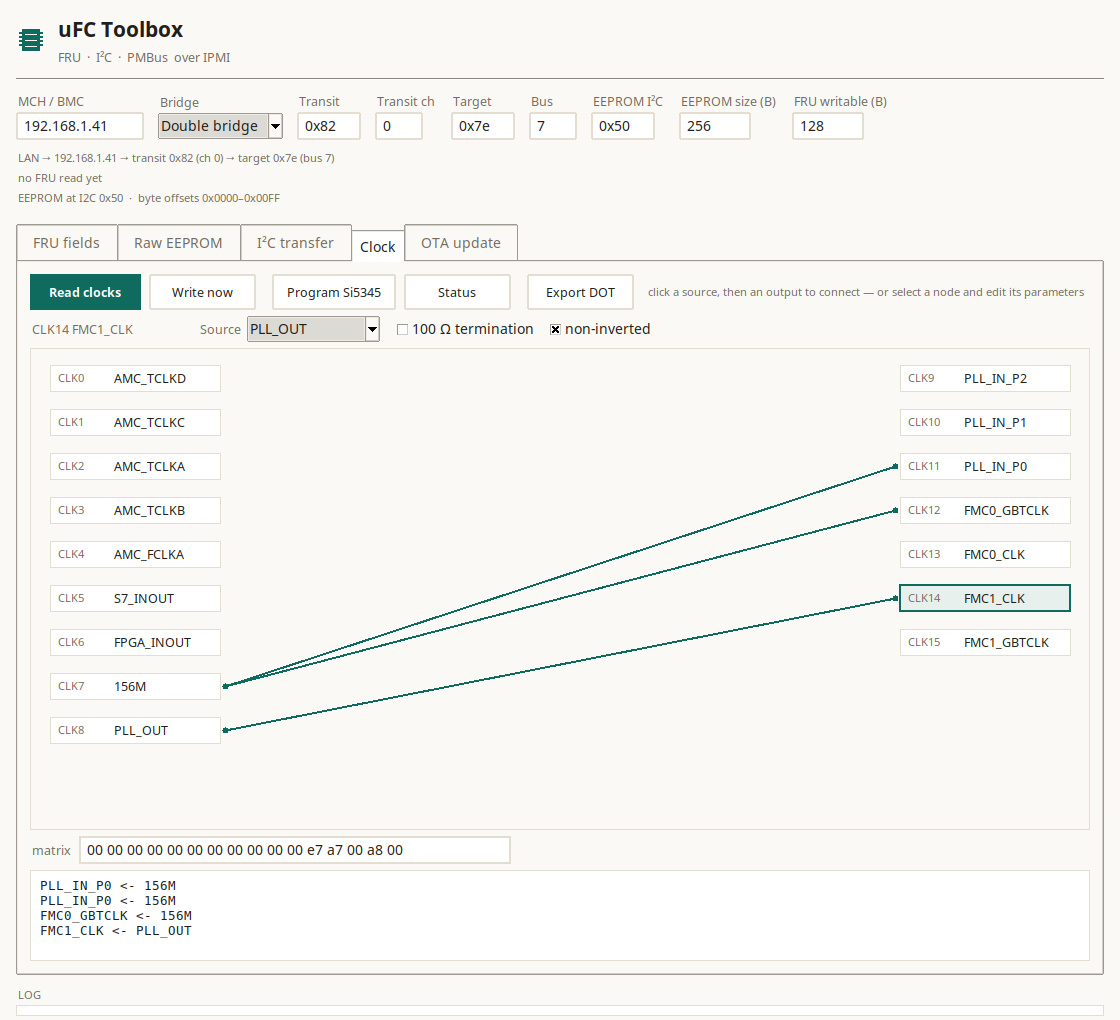
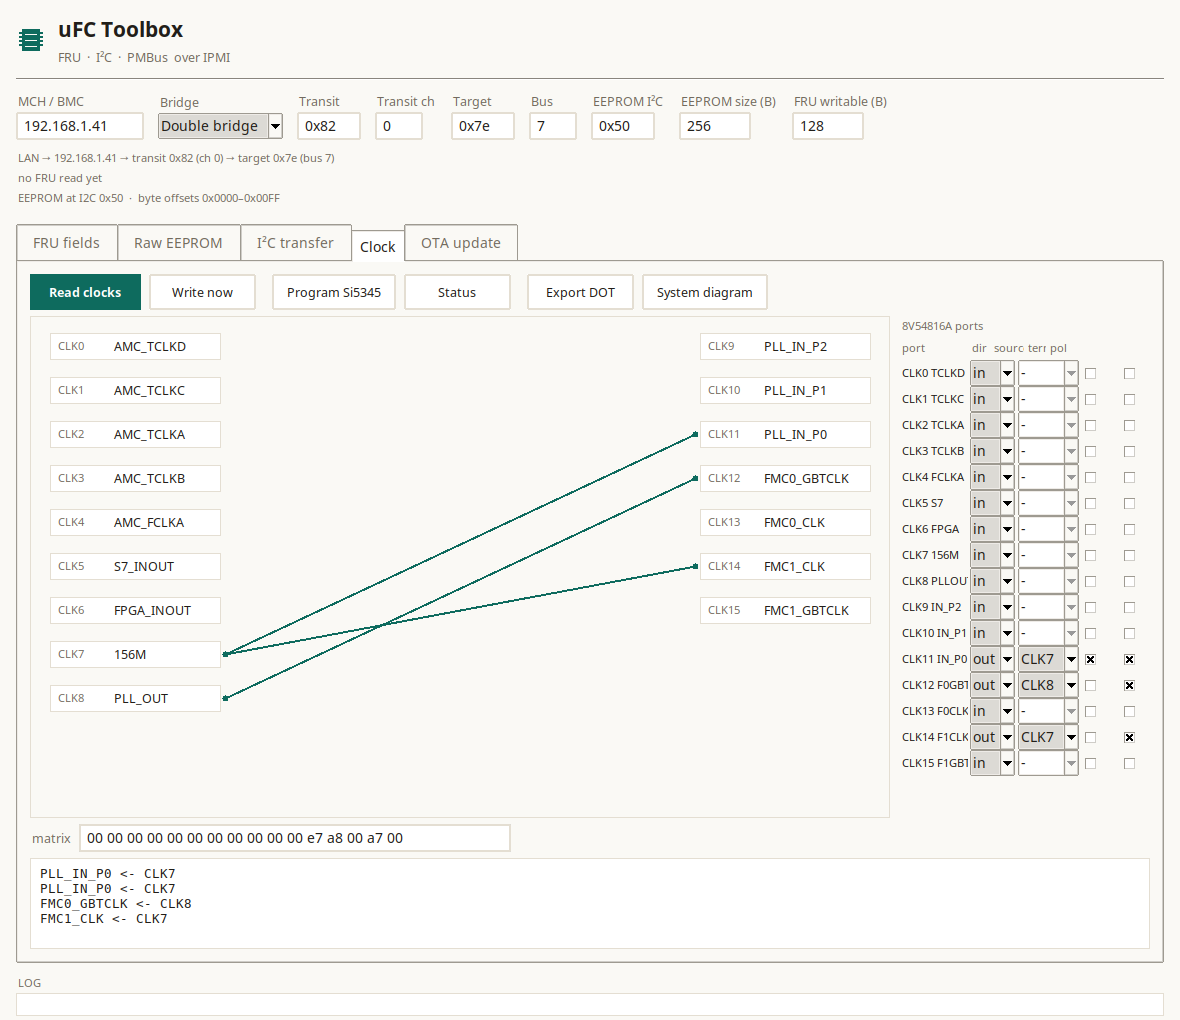
tools/fru_gui: per-port configuration table for the 8V54816A
All 16 ports are now editable in a table next to the crossbar:
direction (in/out), source (CLK0..CLK8 for outputs), 100 ohm
termination, non-inverted polarity. Each change updates the matrix
byte (bit7 output, bit6 termination, bit5 polarity, bits3:0 source) and
redraws the crossbar; ports switched to output default to non-inverted.
Read/write now, Export DOT and the system diagram work from this table.
README and screenshot updated; binary rebuilt.

diff --git a/tools/fru_gui/fru_gui_tk.py b/tools/fru_gui/fru_gui_tk.py
@@ -332,46 +332,123 @@ class FruEditor(tk.Tk):
         ttk.Button(row, text="Status", command=self.clock_status).pack(side="left", padx=(8, 0))
         ttk.Button(row, text="Export DOT", command=self.clock_export_dot).pack(side="left", padx=(16, 0))
         ttk.Button(row, text="System diagram", command=self.clock_show_system).pack(side="left", padx=(8, 0))
-        ttk.Label(row, text="click a source, then an output to connect — or select a node and edit its parameters",
-                  style="Hint.TLabel").pack(side="left", padx=(12, 0))
 
-        props = ttk.Frame(parent)
-        props.pack(fill="x", pady=(0, 6))
-        self.clock_sel_label = tk.StringVar(value="no node selected")
-        ttk.Label(props, textvariable=self.clock_sel_label, style="FieldLabel.TLabel",
-                  width=22, anchor="w").pack(side="left")
-        ttk.Label(props, text="Source", style="FieldLabel.TLabel").pack(side="left", padx=(10, 4))
-        self.clock_src_var = tk.StringVar(value="none")
-        self.clock_src_box = ttk.Combobox(props, textvariable=self.clock_src_var, width=14,
-                                          state="disabled")
-        self.clock_src_box.pack(side="left")
-        self.clock_src_box.bind("<<ComboboxSelected>>", lambda e: self._clock_apply_props())
-        self.clock_term_var = tk.BooleanVar(value=False)
-        ttk.Checkbutton(props, text="100 Ω termination", variable=self.clock_term_var,
-                        command=self._clock_apply_props).pack(side="left", padx=(14, 0))
-        self.clock_pol_var = tk.BooleanVar(value=True)
-        ttk.Checkbutton(props, text="non-inverted", variable=self.clock_pol_var,
-                        command=self._clock_apply_props).pack(side="left", padx=(10, 0))
+        main = ttk.Frame(parent)
+        main.pack(fill="both", expand=True, pady=(0, 6))
+        left = ttk.Frame(main)
+        left.pack(side="left", fill="both", expand=True)
+        right = ttk.Frame(main, padding=(10, 0, 0, 0))
+        right.pack(side="right", fill="y")
 
         self.clock_matrix = bytearray(16)
-        self.clock_sel = None
         self.clock_loading = False
-        self.clock_canvas = tk.Canvas(parent, height=480, bg=BG, highlightthickness=1,
+        self.clock_pending_src = None
+        self.clock_canvas = tk.Canvas(left, height=500, bg=BG, highlightthickness=1,
                                       highlightbackground=LINE)
-        self.clock_canvas.pack(fill="both", expand=True, pady=(0, 6))
+        self.clock_canvas.pack(fill="both", expand=True)
         self.clock_canvas.bind("<Button-1>", self._clock_click)
         self.clock_canvas.bind("<Configure>", lambda e: self._clock_redraw())
+
+        ttk.Label(right, text="8V54816A ports", style="Hint.TLabel").pack(anchor="w")
+        hdr = ttk.Frame(right)
+        hdr.pack(fill="x", pady=(2, 2))
+        for text, w in (("port", 11), ("dir", 3), ("source", 5), ("term", 3), ("pol", 3)):
+            ttk.Label(hdr, text=text, style="Hint.TLabel", width=w).pack(side="left")
+
+        self.port_vars = []
+        for i in range(16):
+            port, name = (self.CLOCK_INPUTS + self.CLOCK_OUTPUTS)[i]
+            short = {"AMC_TCLKD":"TCLKD","AMC_TCLKC":"TCLKC","AMC_TCLKA":"TCLKA",
+                     "AMC_TCLKB":"TCLKB","AMC_FCLKA":"FCLKA","S7_INOUT":"S7",
+                     "FPGA_INOUT":"FPGA","156M":"156M","PLL_OUT":"PLLOUT",
+                     "PLL_IN_P2":"IN_P2","PLL_IN_P1":"IN_P1","PLL_IN_P0":"IN_P0",
+                     "FMC0_GBTCLK":"F0GBT","FMC0_CLK":"F0CLK","FMC1_CLK":"F1CLK",
+                     "FMC1_GBTCLK":"F1GBT"}.get(name, name)
+            rowf = ttk.Frame(right)
+            rowf.pack(fill="x", pady=0)
+            ttk.Label(rowf, text="%s %s" % (port, short), width=11, anchor="w",
+                      font=(UI_FONT, 8)).pack(side="left")
+            d = tk.StringVar(value="in")
+            ttk.Combobox(rowf, textvariable=d, values=("in", "out"), width=3,
+                         state="readonly").pack(side="left", padx=(0, 3))
+            src = tk.StringVar(value="-")
+            srcbox = ttk.Combobox(rowf, textvariable=src, width=5, state="disabled")
+            srcbox.pack(side="left", padx=(0, 3))
+            term = tk.BooleanVar(value=False)
+            ttk.Checkbutton(rowf, variable=term, width=1).pack(side="left", padx=(0, 10))
+            pol = tk.BooleanVar(value=True)
+            ttk.Checkbutton(rowf, variable=pol, width=1).pack(side="left")
+            entry = {"dir": d, "src": src, "srcbox": srcbox, "term": term, "pol": pol,
+                     "frame": rowf}
+            self.port_vars.append(entry)
+            d.trace_add("write", lambda *_a, idx=i: self._port_dir_changed(idx))
+            src.trace_add("write", lambda *_a, idx=i: self._port_apply(idx))
+            term.trace_add("write", lambda *_a, idx=i: self._port_apply(idx))
+            pol.trace_add("write", lambda *_a, idx=i: self._port_apply(idx))
 
         srow = ttk.Frame(parent)
         srow.pack(fill="x", pady=(0, 6))
         ttk.Label(srow, text="matrix", style="FieldLabel.TLabel").pack(side="left")
         self.switch_var = tk.StringVar(value="")
         ttk.Entry(srow, textvariable=self.switch_var, width=52, state="readonly").pack(side="left", padx=(6, 10))
+        self._port_load_all()
 
         self.clock_out = tk.Text(parent, height=5, font=(MONO_FONT, 9), state="disabled",
                                  bg=PANEL, fg=INK, relief="flat", highlightthickness=1,
                                  highlightbackground=LINE, padx=8, pady=6)
         self.clock_out.pack(fill="x")
+
+    def _port_load_all(self):
+        self.clock_loading = True
+        for i in range(16):
+            cfg = self.clock_matrix[i]
+            d = self.port_vars[i]
+            d["dir"].set("out" if (cfg & 0x80) else "in")
+            d["term"].set(bool(cfg & 0x40))
+            d["pol"].set(bool(cfg & 0x20))
+            if cfg & 0x80:
+                src = cfg & 0x0F
+                d["src"].set(self.CLOCK_INPUTS[src][0] if src < len(self.CLOCK_INPUTS) else "-")
+                d["srcbox"].configure(state="readonly",
+                                      values=["-"] + [p for (p, _n) in self.CLOCK_INPUTS])
+            else:
+                d["src"].set("-")
+                d["srcbox"].configure(state="disabled")
+        self.clock_loading = False
+        self._clock_sync()
+
+    def _port_dir_changed(self, i):
+        if self.clock_loading:
+            return
+        d = self.port_vars[i]
+        # a port switched to output defaults to non-inverted
+        if d["dir"].get() == "out" and not d["pol"].get():
+            d["pol"].set(True)
+        self._port_apply(i)
+
+    def _port_apply(self, i):
+        if self.clock_loading:
+            return
+        d = self.port_vars[i]
+        term = 0x40 if d["term"].get() else 0
+        pol = 0x20 if d["pol"].get() else 0
+        if d["dir"].get() == "in":
+            self.clock_matrix[i] = term | pol
+            d["src"].set("-")
+            d["srcbox"].configure(state="disabled")
+        else:
+            d["srcbox"].configure(state="readonly",
+                                  values=["-"] + [p for (p, _n) in self.CLOCK_INPUTS])
+            src_name = d["src"].get()
+            if src_name == "-":
+                self.clock_matrix[i] = 0x80 | term | pol
+            else:
+                src = [p for (p, _n) in self.CLOCK_INPUTS].index(src_name)
+                self.clock_matrix[i] = 0x80 | term | pol | src
+                self._clock_log("%s <- %s" % (self.CLOCK_OUTPUTS[i - 9][1] if i >= 9 else "CLK%d" % i,
+                                              src_name))
+        self._clock_sync()
+        self._clock_redraw()
 
     def _clock_geometry(self):
         w = self.clock_canvas.winfo_width() or 960
@@ -389,7 +466,7 @@ class FruEditor(tk.Tk):
 
         for i, (port, name) in enumerate(self.CLOCK_INPUTS):
             y = y0 + i * row_h
-            sel = (self.clock_sel == ("in", i))
+            sel = (self.clock_pending_src == i)
             c.create_rectangle(left, y - 13, left + box_w, y + 13,
                                fill="#E7F0ED" if sel else PANEL,
                                outline=ACCENT if sel else LINE, width=2 if sel else 1)
@@ -400,10 +477,8 @@ class FruEditor(tk.Tk):
             y = y0 + j * row_h
             cfg = self.clock_matrix[9 + j]
             src = (cfg & 0x0F) if (cfg & 0x80) else None
-            sel = (self.clock_sel == ("out", j))
             c.create_rectangle(right, y - 13, right + box_w, y + 13,
-                               fill="#E7F0ED" if sel else PANEL,
-                               outline=ACCENT if sel else LINE, width=2 if sel else 1)
+                               fill=PANEL, outline=LINE, width=1)
             c.create_text(right + 8, y, text=port, anchor="w", fill=MUTED, font=(UI_FONT, 8))
             c.create_text(right + 64, y, text=name, anchor="w", fill=INK, font=(UI_FONT, 9))
             if src is not None and src < len(self.CLOCK_INPUTS):
@@ -419,70 +494,20 @@ class FruEditor(tk.Tk):
         if left <= x <= left + box_w:
             idx = int(round((y - y0) / row_h))
             if 0 <= idx < len(self.CLOCK_INPUTS):
-                self._clock_select(("in", idx))
+                self.clock_pending_src = None if self.clock_pending_src == idx else idx
+                self._clock_redraw()
                 return
         if right <= x <= right + box_w:
             j = int(round((y - y0) / row_h))
             if 0 <= j < len(self.CLOCK_OUTPUTS):
-                if self.clock_sel and self.clock_sel[0] == "in":
-                    src = self.clock_sel[1]
-                    # default for a new connection: output, non-inverted, no termination
+                src = self.clock_pending_src
+                if src is not None:
                     self.clock_matrix[9 + j] = 0x80 | 0x20 | src
-                    self._clock_log("%s <- %s" % (self.CLOCK_OUTPUTS[j][1], self.CLOCK_INPUTS[src][1]))
-                self._clock_select(("out", j))
-
-    def _clock_select(self, sel):
-        self.clock_sel = sel
-        self._clock_loading = True
-        if sel is None:
-            self.clock_sel_label.set("no node selected")
-            self.clock_src_box.configure(state="disabled")
-        elif sel[0] == "in":
-            i = sel[1]
-            port, name = self.CLOCK_INPUTS[i]
-            self.clock_sel_label.set("%s %s" % (port, name))
-            cfg = self.clock_matrix[i]
-            self.clock_term_var.set(bool(cfg & 0x40))
-            self.clock_pol_var.set(bool(cfg & 0x20))
-            self.clock_src_box.configure(state="disabled")
-            self.clock_src_var.set("none")
-        else:
-            j = sel[1]
-            port, name = self.CLOCK_OUTPUTS[j]
-            self.clock_sel_label.set("%s %s" % (port, name))
-            cfg = self.clock_matrix[9 + j]
-            connected = bool(cfg & 0x80)
-            self.clock_term_var.set(bool(cfg & 0x40))
-            # a disconnected port defaults to non-inverted (bit 5 = 1)
-            self.clock_pol_var.set(bool(cfg & 0x20) if connected else True)
-            self.clock_src_box.configure(state="readonly")
-            self.clock_src_box["values"] = ["none"] + [n for (_p, n) in self.CLOCK_INPUTS]
-            if cfg & 0x80 and (cfg & 0x0F) < len(self.CLOCK_INPUTS):
-                self.clock_src_var.set(self.CLOCK_INPUTS[cfg & 0x0F][1])
-            else:
-                self.clock_src_var.set("none")
-        self._clock_loading = False
-        self._clock_sync()
-        self._clock_redraw()
-
-    def _clock_apply_props(self):
-        if self.clock_loading or self.clock_sel is None:
-            return
-        kind, idx = self.clock_sel
-        term = 0x40 if self.clock_term_var.get() else 0
-        pol = 0x20 if self.clock_pol_var.get() else 0
-        if kind == "in":
-            self.clock_matrix[idx] = term | pol
-        else:
-            src_name = self.clock_src_var.get()
-            if src_name == "none":
-                self.clock_matrix[9 + idx] = 0
-            else:
-                src = [n for (_p, n) in self.CLOCK_INPUTS].index(src_name)
-                self.clock_matrix[9 + idx] = 0x80 | term | pol | src
-                self._clock_log("%s <- %s" % (self.CLOCK_OUTPUTS[idx][1], src_name))
-        self._clock_sync()
-        self._clock_redraw()
+                    self.clock_pending_src = None
+                    self._clock_log("%s <- %s" % (self.CLOCK_OUTPUTS[j][1],
+                                                  self.CLOCK_INPUTS[src][1]))
+                    self._port_load_all()
+                    self._clock_redraw()
 
     def _clock_sync(self):
         self.switch_var.set(" ".join("%02x" % b for b in self.clock_matrix))
@@ -581,10 +606,7 @@ class FruEditor(tk.Tk):
         try:
             data = self._access().clock_switch_read()
             self.clock_matrix = bytearray(data)
-            for i in range(16):
-                if i < 9:
-                    self.clock_matrix[i] = 0x00
-            self._clock_sync()
+            self._port_load_all()
             self._clock_redraw()
             self._clock_log("switch matrix: " + " ".join("%02x" % b for b in self.clock_matrix))
         except Exception as e:

diff --git a/tools/fru_gui/README.md b/tools/fru_gui/README.md
@@ -138,9 +138,11 @@ FCLKA, S7/FPGA inputs, 156M, PLL_OUT) and destinations on the right
 to connect it; click a destination alone to disconnect. The 16-byte matrix
 updates live.
 
-- Selecting a node shows its parameters: **Source** (for outputs), **100 Ω
-  termination**, **non-inverted** — changing any of them updates the matrix
-  immediately (a freshly connected output defaults to non-inverted)
+- **Per-port table**: all 16 ports of the 8V54816A are listed with direction
+  (in/out), source (CLK0…CLK8), 100 Ω termination and non-inverted polarity;
+  every change updates the matrix byte and the drawing immediately (a port
+  switched to output defaults to non-inverted)
+- The crossbar drawing stays editable: click a source, then a destination
 - **Read clocks** / **Write now** — read/write the switch matrix over I²C
   (mux 0x70 ch2, 0x58)
 - **Export DOT** — save the current routing as a Graphviz diagram
